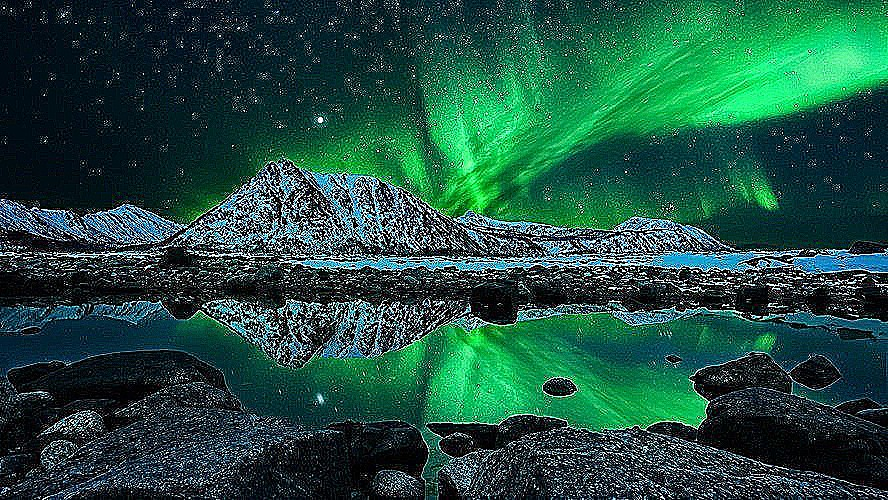
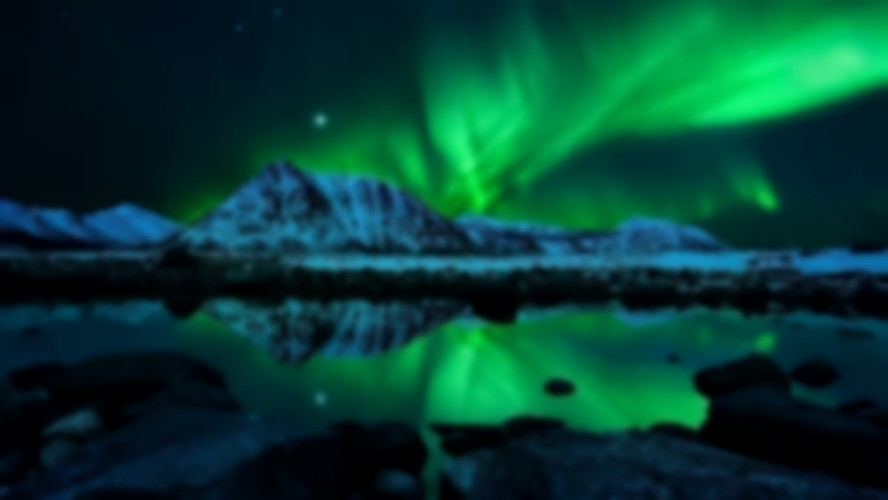
Solucionado el issue #3. La variable $imageObject estaba mal escrita en el case del switch

diff --git a/src/Intervention.php b/src/Intervention.php
@@ -33,7 +33,7 @@ if (is_file("../resources/inputImg/" . $_FILES["imageFile"]["name"])) {
         try{
             switch ($_POST["optionImage"]) {
                 case "blur":
-                    $image0bject->blur($_POST["grade"]);
+                    $imageObject->blur($_POST["grade"]);
                     break;
                 case "bright":
                     $imageObject->brightness($_POST["grade"]);
